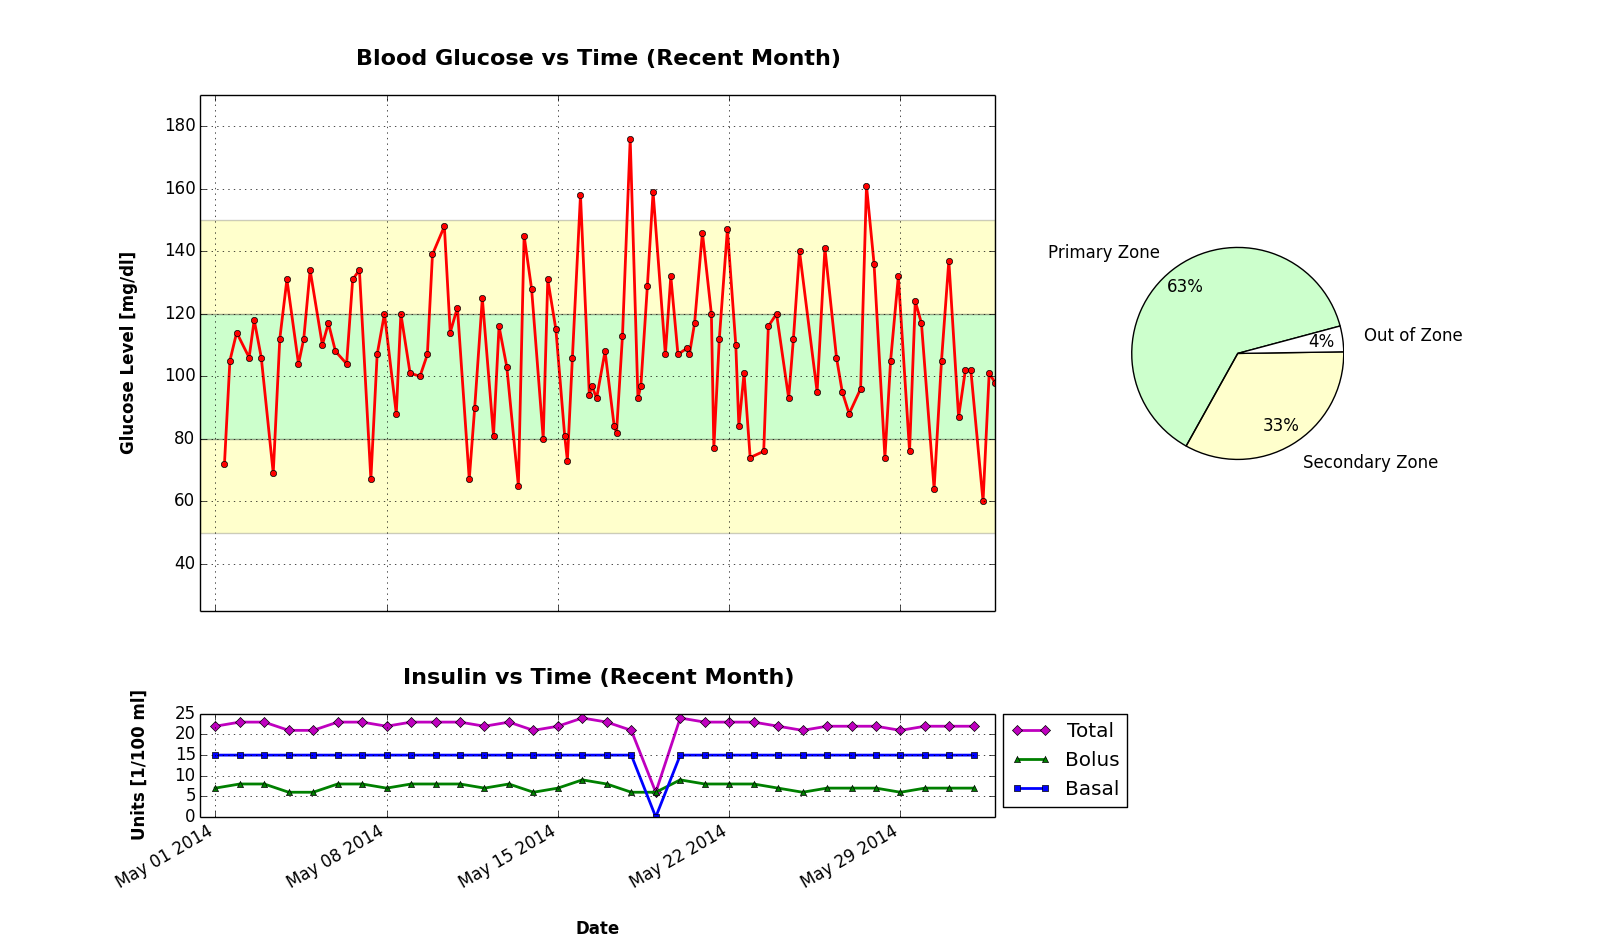
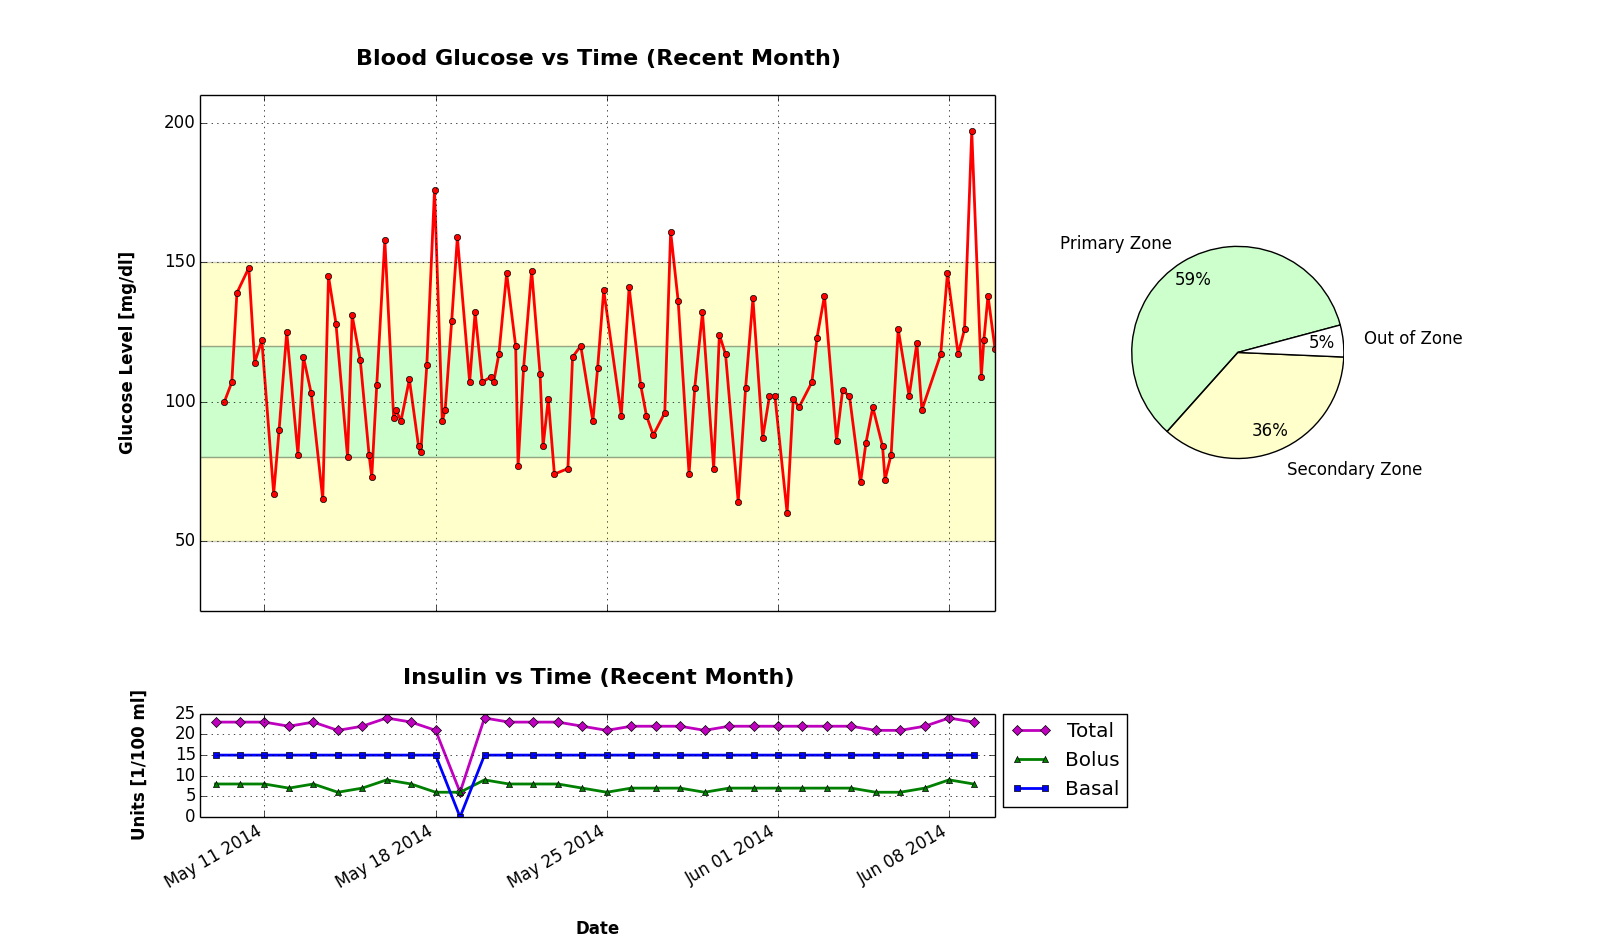
Data Update

diff --git a/d_update.py b/d_update.py
@@ -2,16 +2,17 @@
 
 
 def update():
-    date = ['2014/06/01']
-    carb = ['42', '17', '36', '14', '45', '2']
-    glucose = [['9:00', '60', '-'],
-               ['15:00', '101', '-'],
-               ['20:42', '98', '-']]
-    insulin_fast = [['7:15', '2'],
-                    ['12:00', '2'],
-                    ['18:20', '3']]
+    date = ['2014/06/09']
+    carb = ['42', '14', '80', '14', '30', '7']
+    glucose = [['7:35', '109', 'breakfast'],
+               ['10:05', '122', '-'],
+               ['14:08', '138', '-'],
+               ['21:00', '119', '-']]
+    insulin_fast = [['7:45', '2'],
+                    ['12:00', '4'],
+                    ['18:30', '2']]
     insulin_slow = [['0:00', '15']]
-    weight = [['172']]
+    weight = [['']]
 
     carb_name = ['breakfast', 'morning_snack', 'lunch', 'afternoon_snack',
                  'dinner', 'evening_snack']

diff --git a/d_monitor.py b/d_monitor.py
@@ -362,7 +362,7 @@ def plot_gen(data):
 
     fig1, ax1 = plt.subplots(1, 1, facecolor='white', figsize=figure_size)
     fig1.canvas.set_window_title('Total Blood Glucose History')
-    ax1.plot(x1a, y1a, '-b^', linewidth=2, markersize=5,
+    ax1.plot(x1a, y1a, 'b^', markersize=18,
              label='eAG (Hemoglobin A1c)')
     ax1.plot(x1b, y1b, '-ro', linewidth=2, markersize=5,
              label='Blood Glucose')
